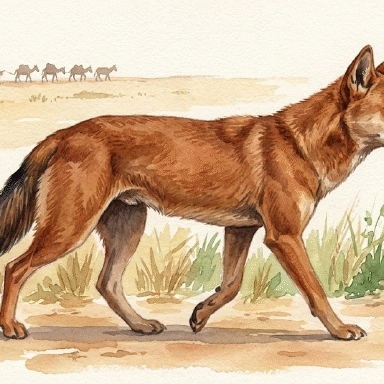
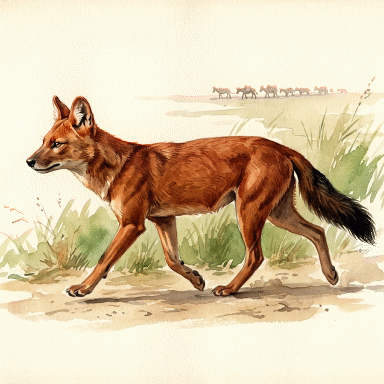
A new Dhol plate; Tolla teaches kulfi (canon 3.5.2)
- The Dhol's plate, from the owner's new painting: the first square crop
  had taken its nose and the tip of its tail. The 1024x765 painting was
  cropped by hand to (160, 0, 925, 765) so the whole animal stays in;
  both raws are kept in the dump.
- recipe_kulfi is taught_by npc_tolla (canon's line on the herders'
  terraces) instead of known to every Maru. test/kulfi.test.ts holds it.
- test/criticalPath.test.ts asks its closure on the map's own benches:
  without fieldMapId the Narmada-only rule refused kulfi everywhere and
  read as a scarcity it is not. The suppliable ratchet drops kulfi from
  the three maps where it is no longer known.

diff --git a/test/suppliable.test.ts b/test/suppliable.test.ts
@@ -76,6 +76,7 @@ describe('not on this ground', () => {
  * one map's things wanted on another -- dates and myrrh are Dwarka's now that it is a cold desert,
  * guggul and shilajit the Narmada's, taro Lothal's -- which "Not on this ground" says to carry in.
  * Hill curd closed on Dwarka and Lothal on 4 October 2026, when the zebu brought milk to the plains.
+ * Kulfi left the other three maps the same day: Tolla teaches it, on the Narmada only.
  */
 const NEVER_ON: Record<string, string[]> = {
   field_map_aravali: [
@@ -86,7 +87,6 @@ const NEVER_ON: Record<string, string[]> = {
     'recipe_guggul_pill', // guggul
     'recipe_hide_tent', // husk hawser
     'recipe_kuchla_grain', // purified kuchla
-    'recipe_kulfi', // glacier ice: snow is the Narmada's alone, and kulfi is made there only
     'recipe_myrrh_poultice', // myrrh gum
     'recipe_purify_kuchla', // kuchla seed
     'recipe_salt_fish_stew', // dried fish, lotus-root taro
@@ -101,7 +101,6 @@ const NEVER_ON: Record<string, string[]> = {
     'recipe_guggul_pill', // guggul, pippali
     'recipe_jackfruit_curry', // jackfruit, ginger
     'recipe_kuchla_grain', // purified kuchla
-    'recipe_kulfi', // glacier ice: snow is the Narmada's alone, and kulfi is made there only
     'recipe_purify_kuchla', // kuchla seed
     'recipe_reed_flute', // bamboo cane
     'recipe_reed_spear', // bamboo cane
@@ -115,7 +114,6 @@ const NEVER_ON: Record<string, string[]> = {
     'recipe_guggul_pill', // guggul
     'recipe_hide_tent', // husk hawser
     'recipe_kuchla_grain', // purified kuchla
-    'recipe_kulfi', // glacier ice: snow is the Narmada's alone, and kulfi is made there only
     'recipe_myrrh_poultice', // myrrh gum
     'recipe_purify_kuchla', // kuchla seed
     'recipe_shilajit_tonic', // shilajit

diff --git a/test/kulfi.test.ts b/test/kulfi.test.ts
@@ -9,7 +9,7 @@
 import { describe, expect, it } from 'vitest';
 import { canMake, mapAllows, placeAllows, shortfalls } from '../src/content/crafting';
 import { benchAt } from '../src/content/stations';
-import { fieldMaps, poi } from '../src/content/places';
+import { fieldMap, fieldMaps, npc, poi } from '../src/content/places';
 import { material, recipe } from '../src/content/making';
 import { add, emptySatchel } from '../src/content/satchel';
 
@@ -29,6 +29,16 @@ describe('kulfi', () => {
     expect(r.ingredients.some((n) => n.tag === 'milk')).toBe(true);
     expect(r.ingredients.some((n) => n.material === 'material_glacier_ice')).toBe(true);
     expect(r.madeOn).toEqual(['field_map_narmada']);
+  });
+
+  it('is shown by Tolla on the herders’ terraces, and by nobody else', () => {
+    // The owner, 4 October 2026: taught, not known from the start. Canon's line gives it.
+    const r = recipe('recipe_kulfi')!;
+    expect(r.taughtBy).toEqual(['npc_tolla']);
+    expect(r.knownBy).toEqual([]);
+    const teaching = npc('npc_tolla')!.lines.filter((l) => l.gives.includes('recipe_kulfi'));
+    expect(teaching.length).toBe(1);
+    expect(npc('npc_tolla')!.foundAt.every((at) => fieldMap('field_map_narmada')!.pointsOfInterest.includes(at))).toBe(true);
   });
 
   it('can be made on the Narmada', () => {

diff --git a/test/criticalPath.test.ts b/test/criticalPath.test.ts
@@ -95,7 +95,8 @@ function closure(mapId: string, raw: Set<string>, known: (id: string) => boolean
       if (!known(r.id)) continue;
       const outputs = r.outputs.map((o) => o.item ?? o.material ?? '').filter(Boolean);
       if (outputs.every((id) => count(satchel, id) > 0)) continue;
-      if (!kinds.some((kind) => canMake(satchel, r.id, { kind }))) continue;
+      // The map as well as the kind of place: a recipe may be made on only some maps (`Recipe.madeOn`).
+      if (!kinds.some((kind) => canMake(satchel, r.id, { kind, fieldMapId: mapId }))) continue;
       for (const id of outputs) satchel = add(satchel, id, PLENTY);
       grew = true;
     }

diff --git a/docs/zebu-soma-chariot.md b/docs/zebu-soma-chariot.md
@@ -75,10 +75,19 @@ seed, and five from camp ground left one seed a single stop. Its round now needs
 interest, and without them it has none rather than one that walks into the market.
 `test/vasukiKeepsAway.test.ts`.
 
+## Afterwards, the same day
+
+- **Tolla teaches kulfi**, on the owner's word: a line on the herders' terraces gives it (canon 3.5.2),
+  and the recipe is `taught_by` Tolla rather than known to every Maru. `test/criticalPath.test.ts`
+  now asks its closure on the map's own benches (`fieldMapId`), or the Narmada-only rule refused kulfi
+  everywhere and read as a scarcity it is not.
+- **The Dhol has a new plate.** The first painting's square crop had taken its nose and the tip of its
+  tail. The new one is 1024 x 765 and was cropped by hand to `(160, 0, 925, 765)` before building, so
+  the whole animal and the caravan string behind it stay in; both raws are kept in the dump.
+
 ## Open
 
 - The gull plate is 512 by 482 and was stretched about six percent to square, with a small mark in a
   corner. Kept unless the owner sends a square take.
-- Kulfi is known to the Maru. A Narmada herder could teach it with a line instead.
 - `build-wanderers.js --force` and `build-plates.js --force` re-cut every accepted piece of art from
   the dump, not only the new one; this round put the others back from git both times.
